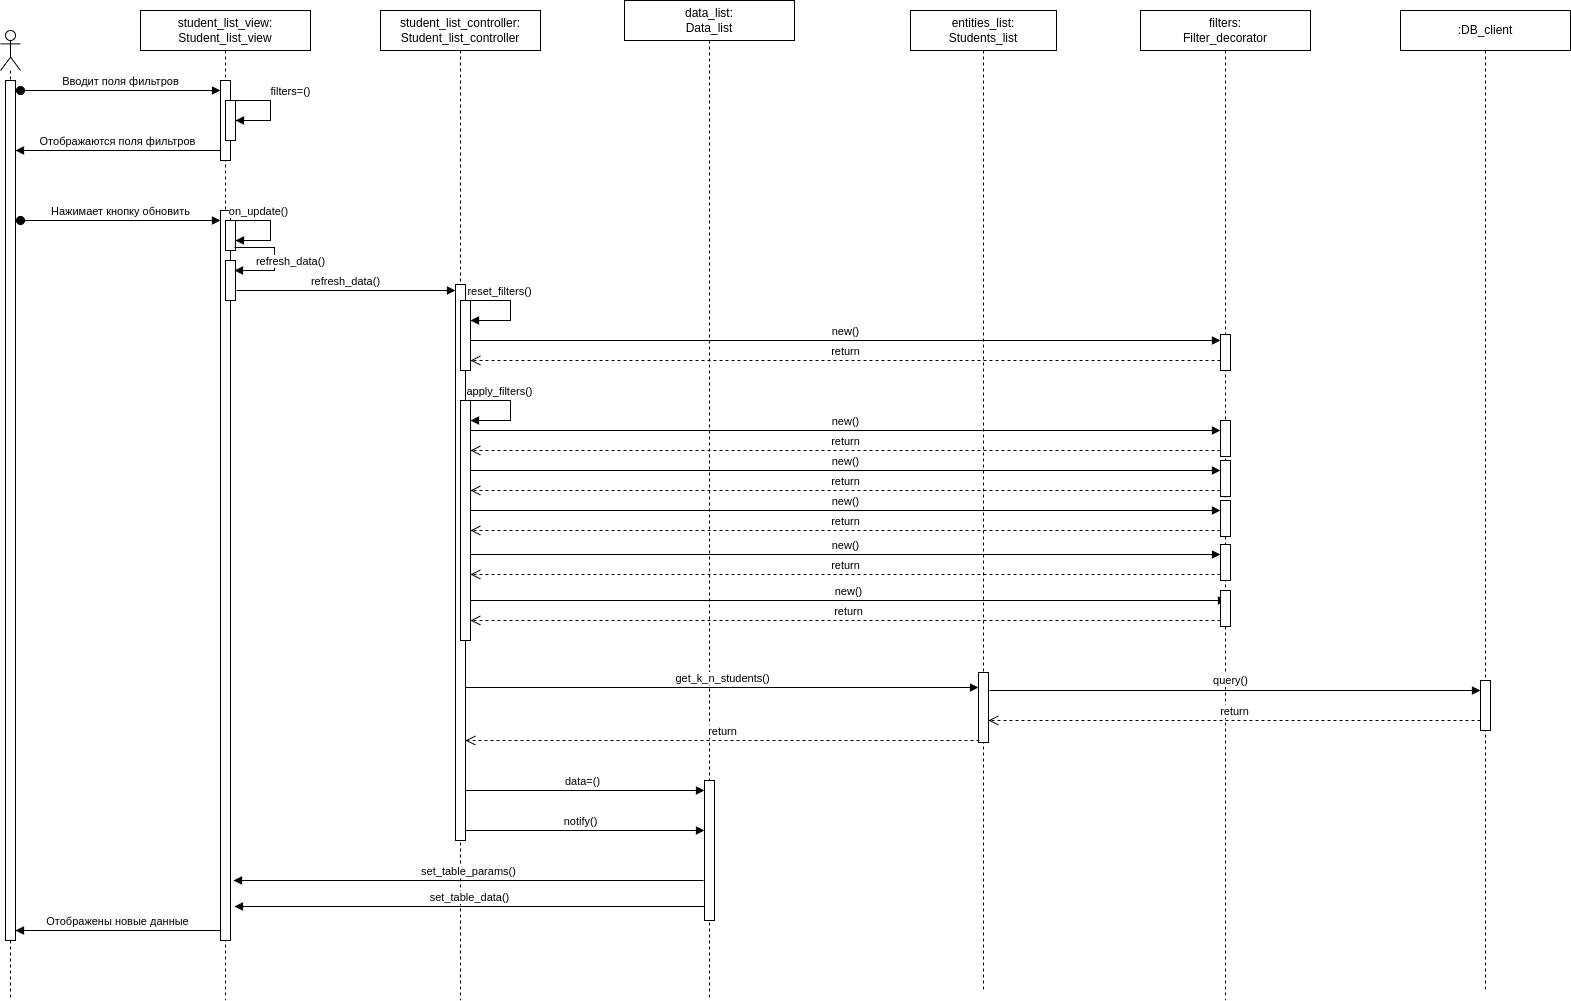
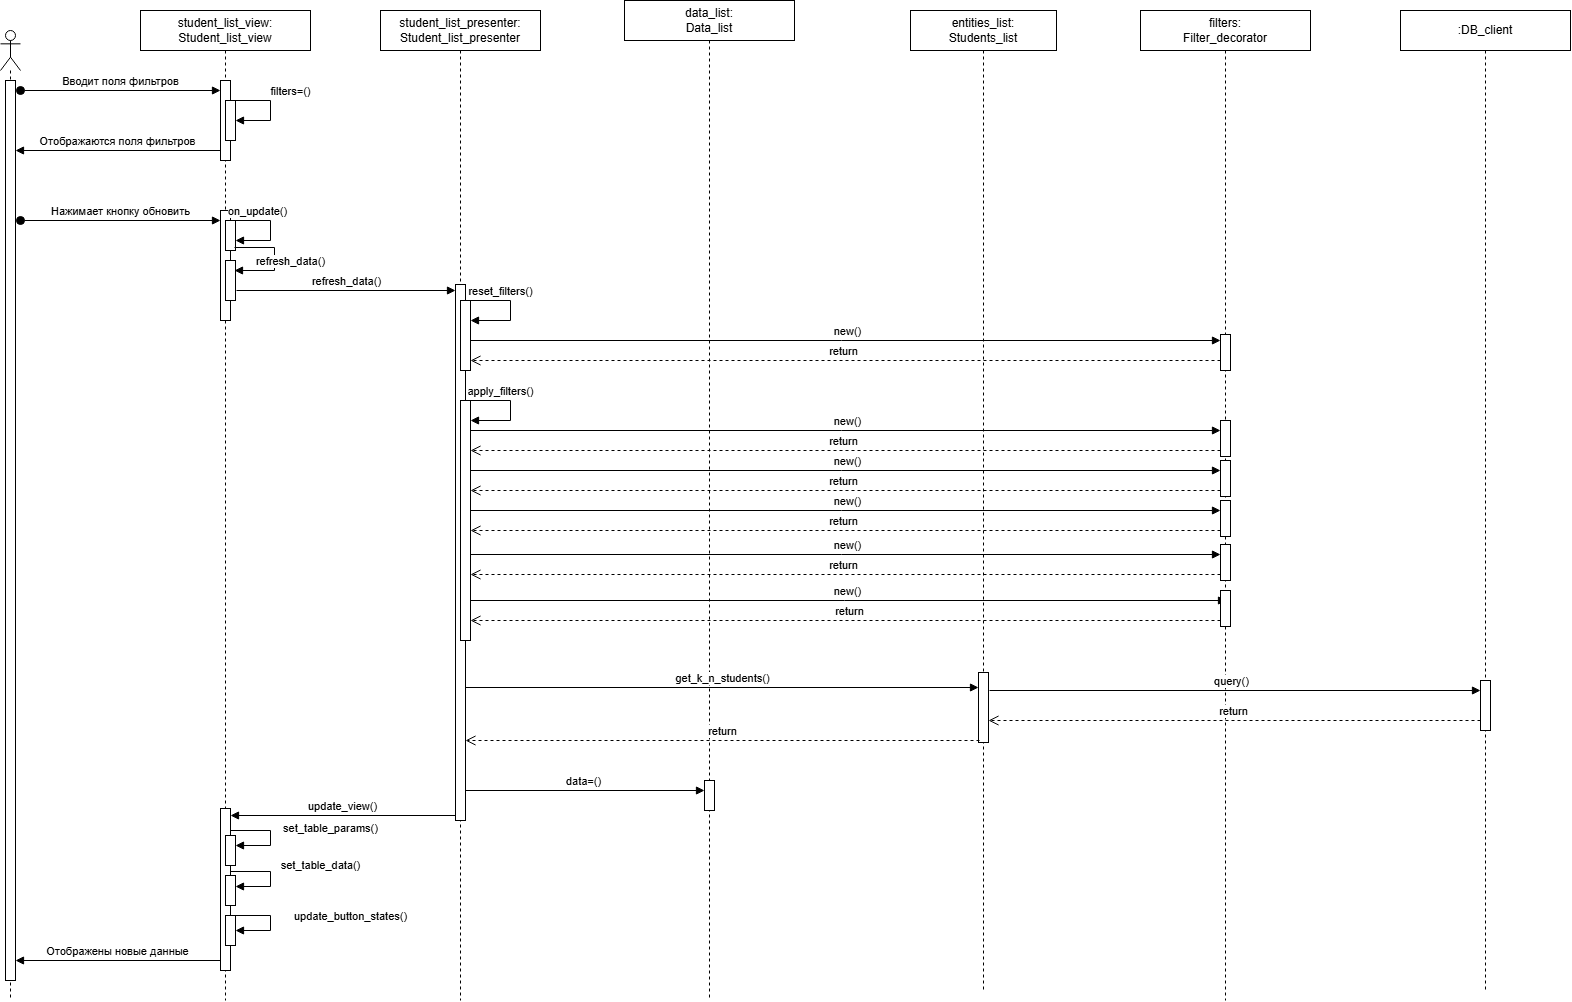
6.1: diagrams for MVP

diff --git a/student_(MVP)/views/base_views/base_view.rb b/student_(MVP)/views/base_views/base_view.rb
@@ -14,6 +14,14 @@ class Base_view < FXVerticalFrame
     raise NotImplementedError
   end
 
+  def set_table_params(column_names, whole_entities_count)
+    raise NotImplementedError
+  end
+
+  def set_table_data(data_table)
+    raise NotImplementedError
+  end
+
   def update_view(data)
     raise NotImplementedError
   end
